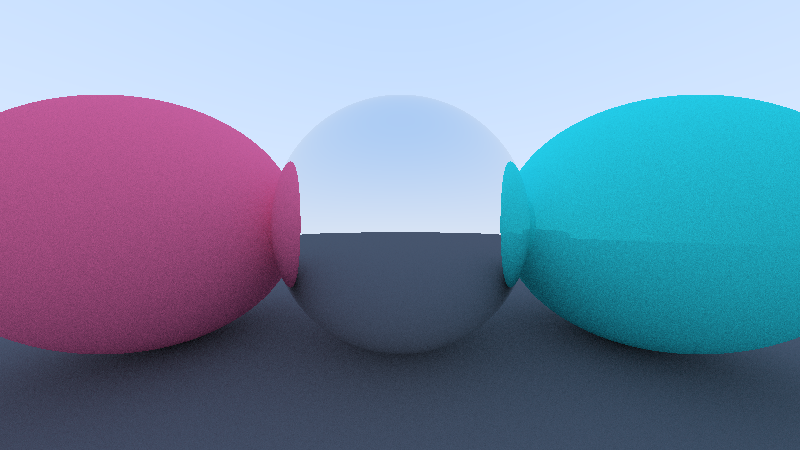
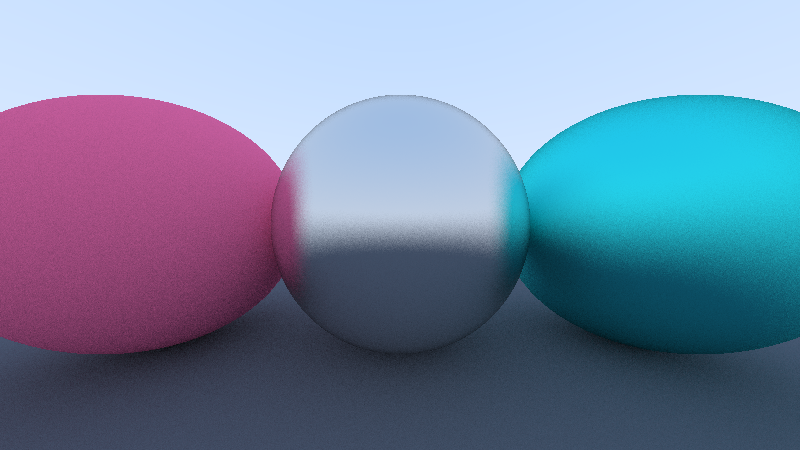
cleanup and add fuzz

diff --git a/ray-tracing-utility/src/materials.rs b/ray-tracing-utility/src/materials.rs
@@ -1,4 +1,5 @@
 use crate::*;
+use std::sync::Arc;
 pub trait Material {
     fn scatter(
         &self,
@@ -14,10 +15,14 @@ pub struct Lambertian {
 }
 
 impl Lambertian {
-    pub fn new() -> Self {
-        Lambertian {
-            albedo: Vec3::default(),
+    pub fn new(r: i32, g: i32, b: i32) -> Self {
+        Self {
+            albedo: Color::rgb(r, g, b),
         }
+    }
+
+    pub fn as_ref(self) -> Arc<Self> {
+        Arc::new(self)
     }
 }
 
@@ -45,6 +50,20 @@ impl Material for Lambertian {
 #[derive(Copy, Clone)]
 pub struct Metal {
     pub albedo: Color,
+    pub fuzz: f64,
+}
+
+impl Metal {
+    pub fn new(r: i32, g: i32, b: i32, fuzz: f64) -> Self {
+        Self {
+            albedo: Color::rgb(r, g, b),
+            fuzz: if fuzz < 1. { fuzz } else { 1. },
+        }
+    }
+
+    pub fn as_ref(self) -> Arc<Self> {
+        Arc::new(self)
+    }
 }
 
 impl Material for Metal {
@@ -58,7 +77,7 @@ impl Material for Metal {
         let reflected = ray_in.direction.reflect(record.normal).unit();
         *scattered = Ray {
             origin: record.point,
-            direction: reflected,
+            direction: reflected + self.fuzz * Vec3::random_in_unit_sphere(),
         };
         *attenuation = self.albedo;
         return scattered.direction.dot(record.normal) > 0.;

diff --git a/ray-tracing-in-one-weekend/src/main.rs b/ray-tracing-in-one-weekend/src/main.rs
@@ -19,18 +19,10 @@ fn main() -> std::io::Result<()> {
     // World
     let mut world = HittableList::default();
 
-    let material_ground = Arc::new(Lambertian {
-        albedo: Color::rgb(37, 42, 52),
-    });
-    let material_center = Arc::new(Metal {
-        albedo: Color::rgb(234, 234, 234),
-    });
-    let material_left = Arc::new(Lambertian {
-        albedo: Color::rgb(255, 46, 99),
-    });
-    let material_right = Arc::new(Lambertian {
-        albedo: Color::rgb(8, 217, 214),
-    });
+    let material_ground = Lambertian::new(37, 42, 52).as_ref();
+    let material_center = Metal::new(200, 200, 200, 0.3).as_ref();
+    let material_left = Lambertian::new(255, 46, 99).as_ref();
+    let material_right = Metal::new(8, 217, 214, 0.7).as_ref();
 
     world.add(Arc::new(Sphere {
         center: Point3::new(0., -100.5, -1.),

diff --git a/ray-tracing-utility/src/hittable.rs b/ray-tracing-utility/src/hittable.rs
@@ -17,7 +17,7 @@ impl Default for HitRecord {
             normal: Vec3::from((0, 0, 0)),
             t: 0f64,
             front_face: true,
-            material: Arc::new(Lambertian::new()),
+            material: Arc::new(Lambertian::new(0, 0, 0)),
         }
     }
 }
@@ -48,7 +48,7 @@ impl Sphere {
         Sphere {
             center,
             radius,
-            material: Arc::new(Lambertian::new()),
+            material: Arc::new(Lambertian::new(0, 0, 0)),
         }
     }
 }
